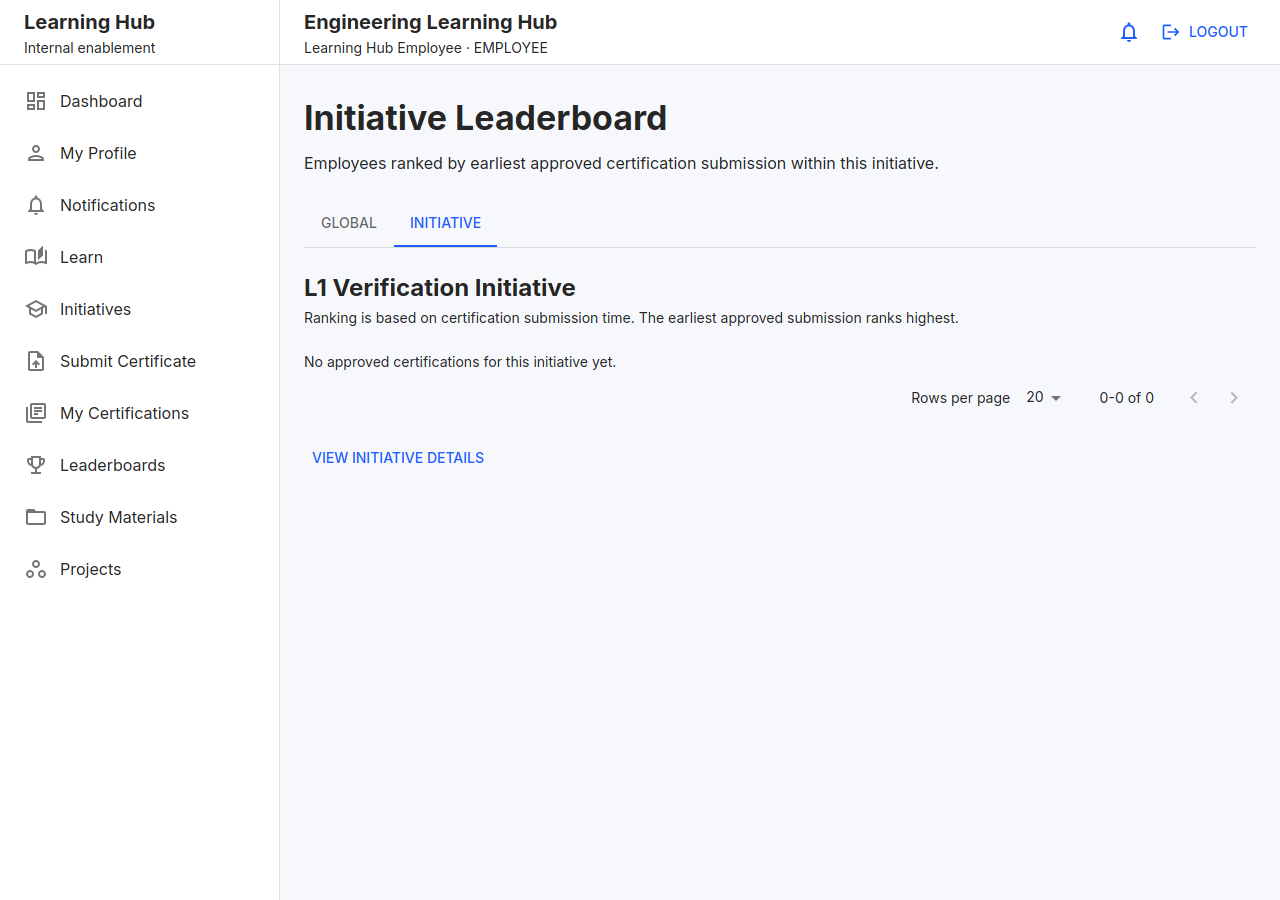
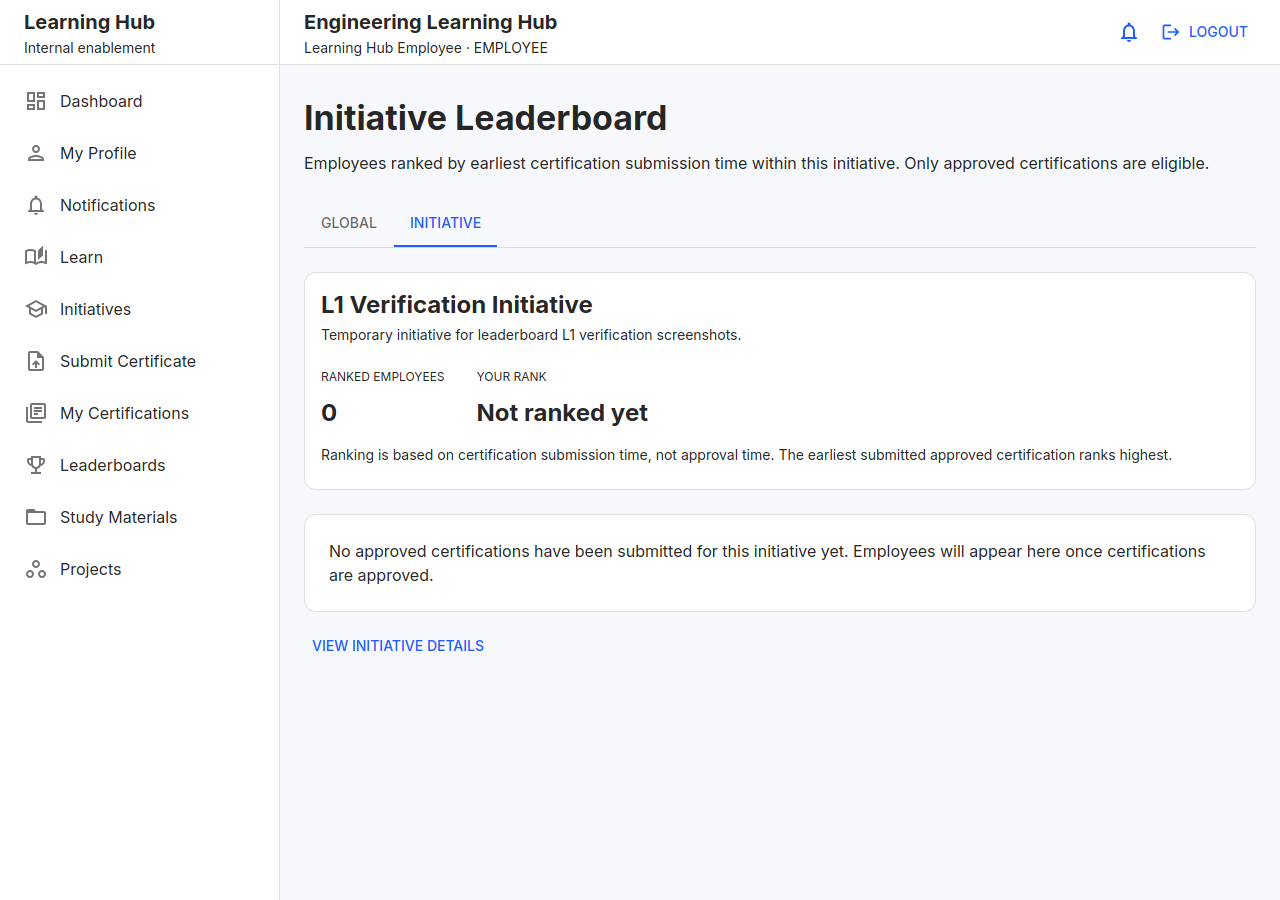
fix(leaderboard): address manual QA polish for initiative leaderboard UI

diff --git a/frontend/src/components/leaderboards/InitiativeLeaderboardView.tsx b/frontend/src/components/leaderboards/InitiativeLeaderboardView.tsx
@@ -2,6 +2,8 @@ import {
   Alert,
   Box,
   Button,
+  Card,
+  CardContent,
   Paper,
   Skeleton,
   Stack,
@@ -13,6 +15,7 @@ import {
   TableRow,
   Typography,
 } from '@mui/material'
+import type { Initiative } from '../../types/initiatives'
 import type { InitiativeLeaderboardEntry } from '../../types/leaderboards'
 import { formatInitiativeDate } from '../initiatives/initiativeDisplay'
 import { WrappingText } from '../common/WrappingText'
@@ -21,7 +24,9 @@ import { LEADERBOARD_MESSAGES } from './leaderboardMessages'
 
 interface InitiativeLeaderboardViewProps {
   initiativeTitle: string
+  initiative?: Initiative | null
   entries: InitiativeLeaderboardEntry[]
+  totalElements: number
   loading: boolean
   error: string | null
   currentUserId?: string | null
@@ -30,12 +35,16 @@ interface InitiativeLeaderboardViewProps {
 
 export function InitiativeLeaderboardView({
   initiativeTitle,
+  initiative,
   entries,
+  totalElements,
   loading,
   error,
   currentUserId,
   onRetry,
 }: InitiativeLeaderboardViewProps) {
+  const currentUserEntry = entries.find((entry) => entry.employee.id === currentUserId)
+
   if (error) {
     return (
       <Alert
@@ -55,12 +64,51 @@ export function InitiativeLeaderboardView({
 
   return (
     <Stack spacing={3}>
-      <Stack spacing={0.5}>
-        <Typography variant="h5">{initiativeTitle}</Typography>
-        <Typography color="text.secondary" variant="body2">
-          {LEADERBOARD_MESSAGES.initiativeRankingRule}
-        </Typography>
-      </Stack>
+      <Card variant="outlined">
+        <CardContent>
+          {loading ? (
+            <Stack spacing={1.5}>
+              <Skeleton height={32} width="45%" />
+              <Skeleton height={20} width="80%" />
+              <Skeleton height={48} width="60%" />
+            </Stack>
+          ) : (
+            <Stack spacing={2}>
+              <Stack spacing={0.5}>
+                <Typography variant="h5">{initiativeTitle}</Typography>
+                {initiative?.description ? (
+                  <Typography color="text.secondary" variant="body2">
+                    {initiative.description}
+                  </Typography>
+                ) : null}
+              </Stack>
+
+              <Stack
+                direction={{ xs: 'column', sm: 'row' }}
+                spacing={{ xs: 2, sm: 4 }}
+                sx={{ alignItems: { sm: 'center' } }}
+              >
+                <Stack spacing={0.5}>
+                  <Typography variant="overline">{LEADERBOARD_MESSAGES.initiativeRankedEmployees}</Typography>
+                  <Typography variant="h5">{totalElements}</Typography>
+                </Stack>
+                {currentUserId && (currentUserEntry || totalElements === 0) ? (
+                  <Stack spacing={0.5}>
+                    <Typography variant="overline">{LEADERBOARD_MESSAGES.initiativeYourRank}</Typography>
+                    <Typography variant="h5">
+                      {currentUserEntry ? `#${currentUserEntry.rank}` : LEADERBOARD_MESSAGES.myRankUnranked}
+                    </Typography>
+                  </Stack>
+                ) : null}
+              </Stack>
+
+              <Typography color="text.secondary" variant="body2">
+                {LEADERBOARD_MESSAGES.initiativeRankingRule}
+              </Typography>
+            </Stack>
+          )}
+        </CardContent>
+      </Card>
 
       {loading ? (
         <Stack spacing={1}>
@@ -69,9 +117,11 @@ export function InitiativeLeaderboardView({
           ))}
         </Stack>
       ) : entries.length === 0 ? (
-        <Typography color="text.secondary" variant="body2">
-          {LEADERBOARD_MESSAGES.emptyInitiative}
-        </Typography>
+        <Paper sx={{ p: 3 }} variant="outlined">
+          <Typography color="text.secondary" variant="body1">
+            {LEADERBOARD_MESSAGES.emptyInitiative}
+          </Typography>
+        </Paper>
       ) : (
         <>
           <Box sx={{ display: { xs: 'block', md: 'none' } }}>
@@ -104,7 +154,7 @@ export function InitiativeLeaderboardView({
             </Stack>
           </Box>
 
-          <TableContainer sx={{ display: { xs: 'none', md: 'block' } }}>
+          <TableContainer component={Paper} variant="outlined" sx={{ display: { xs: 'none', md: 'block' } }}>
             <Table>
               <TableHead>
                 <TableRow>

diff --git a/frontend/src/pages/leaderboards/InitiativeLeaderboardPage.tsx b/frontend/src/pages/leaderboards/InitiativeLeaderboardPage.tsx
@@ -1,5 +1,5 @@
 import { useCallback, useEffect, useState } from 'react'
-import { Alert, Box, Button, FormControl, InputLabel, MenuItem, Select, Stack } from '@mui/material'
+import { Alert, Box, Button, FormControl, InputLabel, MenuItem, Select, Stack, Typography } from '@mui/material'
 import { Link as RouterLink, useNavigate, useParams } from 'react-router-dom'
 import { initiativesApi } from '../../api/initiativesApi'
 import { leaderboardsApi } from '../../api/leaderboardsApi'
@@ -31,6 +31,7 @@ export function InitiativeLeaderboardPage() {
   const navigate = useNavigate()
   const { user } = useAuth()
   const [initiatives, setInitiatives] = useState<Initiative[]>([])
+  const [initiative, setInitiative] = useState<Initiative | null>(null)
   const [initiativeTitle, setInitiativeTitle] = useState('')
   const [pageData, setPageData] = useState<PageResponse<InitiativeLeaderboardEntry>>(EMPTY_PAGE)
   const [loadingInitiatives, setLoadingInitiatives] = useState(!initiativeId)
@@ -94,6 +95,7 @@ export function InitiativeLeaderboardPage() {
           setNotFound(true)
           setPageData(EMPTY_PAGE)
           setInitiativeTitle('')
+          setInitiative(null)
           return
         }
         throw initiativeResult.reason
@@ -104,12 +106,14 @@ export function InitiativeLeaderboardPage() {
           setNotFound(true)
           setPageData(EMPTY_PAGE)
           setInitiativeTitle(initiativeResult.value.title)
+          setInitiative(initiativeResult.value)
           return
         }
         throw leaderboardResult.reason
       }
 
       setInitiativeTitle(initiativeResult.value.title)
+      setInitiative(initiativeResult.value)
       setPageData(leaderboardResult.value)
     } catch (loadError) {
       setLeaderboardError(resolveApiError(loadError, LEADERBOARD_MESSAGES.errorInitiative))
@@ -135,7 +139,9 @@ export function InitiativeLeaderboardPage() {
         <Stack spacing={2}>
           {initiativesError ? <Alert severity="error">{initiativesError}</Alert> : null}
           <FormControl fullWidth sx={{ maxWidth: 480 }}>
-            <InputLabel id="initiative-leaderboard-select-label">{LEADERBOARD_MESSAGES.initiativeSelectLabel}</InputLabel>
+            <InputLabel id="initiative-leaderboard-select-label" shrink>
+              {LEADERBOARD_MESSAGES.initiativeSelectLabel}
+            </InputLabel>
             <Select
               disabled={loadingInitiatives}
               displayEmpty
@@ -147,14 +153,16 @@ export function InitiativeLeaderboardPage() {
                   navigate(`/leaderboards/initiatives/${event.target.value}`)
                 }
               }}
+              renderValue={() => (
+                <Typography color="text.secondary" component="span" variant="body1">
+                  {loadingInitiatives ? 'Loading initiatives...' : LEADERBOARD_MESSAGES.initiativeSelectPlaceholder}
+                </Typography>
+              )}
               value=""
             >
-              <MenuItem disabled value="">
-                {loadingInitiatives ? 'Loading initiatives...' : LEADERBOARD_MESSAGES.initiativeSelectPlaceholder}
-              </MenuItem>
-              {initiatives.map((initiative) => (
-                <MenuItem key={initiative.id} value={initiative.id}>
-                  {initiative.title}
+              {initiatives.map((initiativeOption) => (
+                <MenuItem key={initiativeOption.id} value={initiativeOption.id}>
+                  {initiativeOption.title}
                 </MenuItem>
               ))}
             </Select>
@@ -169,20 +177,24 @@ export function InitiativeLeaderboardPage() {
             currentUserId={user?.id}
             entries={pageData.content}
             error={leaderboardError}
+            initiative={initiative}
             initiativeTitle={initiativeTitle || pageData.content[0]?.initiativeTitle || 'Initiative'}
             loading={loadingLeaderboard}
             onRetry={() => setRefreshToken((current) => current + 1)}
-          />
-          <TablePaginationBar
-            onPageChange={setPage}
-            onSizeChange={(nextSize) => {
-              setSize(nextSize)
-              setPage(0)
-            }}
-            page={page}
-            size={size}
             totalElements={pageData.totalElements}
           />
+          {pageData.totalElements > 0 ? (
+            <TablePaginationBar
+              onPageChange={setPage}
+              onSizeChange={(nextSize) => {
+                setSize(nextSize)
+                setPage(0)
+              }}
+              page={page}
+              size={size}
+              totalElements={pageData.totalElements}
+            />
+          ) : null}
           <Button component={RouterLink} sx={{ mt: 2 }} to={`/initiatives/${initiativeId}`} variant="text">
             View Initiative Details
           </Button>

diff --git a/frontend/src/pages/leaderboards/InitiativeLeaderboardPage.test.tsx b/frontend/src/pages/leaderboards/InitiativeLeaderboardPage.test.tsx
@@ -122,7 +122,7 @@ describe('InitiativeLeaderboardPage', () => {
     renderRoutes('/leaderboards/initiatives/initiative-123')
 
     expect(await screen.findByText('AWS Certification')).toBeInTheDocument()
-    expect(screen.getByText(/Ranking is based on certification submission time/i)).toBeInTheDocument()
+    expect(screen.getByText(/Ranking is based on certification submission time, not approval time/i)).toBeInTheDocument()
     await waitFor(() => {
       expect(screen.getAllByText('Employee One').length).toBeGreaterThan(0)
     })
@@ -158,5 +158,28 @@ describe('InitiativeLeaderboardPage', () => {
     await user.click(screen.getByRole('option', { name: 'AWS Certification' }))
 
     expect(await screen.findByText('AWS Certification')).toBeInTheDocument()
+  })
+
+  it('hides pagination when the initiative leaderboard is empty', async () => {
+    vi.mocked(initiativesApi.get).mockResolvedValue(initiative)
+    vi.mocked(leaderboardsApi.initiative).mockResolvedValue({
+      content: [],
+      first: true,
+      last: true,
+      page: 0,
+      size: 20,
+      sort: [],
+      totalElements: 0,
+      totalPages: 0,
+    })
+
+    renderRoutes('/leaderboards/initiatives/initiative-123')
+
+    expect(
+      await screen.findByText(
+        'No approved certifications have been submitted for this initiative yet. Employees will appear here once certifications are approved.',
+      ),
+    ).toBeInTheDocument()
+    expect(screen.queryByText('Rows per page')).not.toBeInTheDocument()
   })
 })

diff --git a/frontend/src/components/leaderboards/leaderboardMessages.ts b/frontend/src/components/leaderboards/leaderboardMessages.ts
@@ -4,16 +4,19 @@ export const LEADERBOARD_MESSAGES = {
   approvedCertificationLabel: 'Approved Certifications',
   currentUserSummary: 'Your standing on the global leaderboard.',
   emptyGlobal: 'No approved certifications yet. Complete and get certifications approved to appear here.',
-  emptyInitiative: 'No approved certifications for this initiative yet.',
+  emptyInitiative:
+    'No approved certifications have been submitted for this initiative yet. Employees will appear here once certifications are approved.',
   errorGlobal: 'Unable to load the global leaderboard. Please refresh or try again later.',
   errorInitiative: 'Unable to load the initiative leaderboard. Please refresh or try again later.',
   globalDescription:
     'Employees ranked by verified approved certifications across all initiatives. All-time results only.',
   globalTitle: 'Global Leaderboard',
   initiativeDescription:
-    'Employees ranked by earliest approved certification submission within this initiative.',
+    'Employees ranked by earliest certification submission time within this initiative. Only approved certifications are eligible.',
   initiativeRankingRule:
-    'Ranking is based on certification submission time. The earliest approved submission ranks highest.',
+    'Ranking is based on certification submission time, not approval time. The earliest submitted approved certification ranks highest.',
+  initiativeRankedEmployees: 'Ranked employees',
+  initiativeYourRank: 'Your rank',
   initiativeSelectLabel: 'Learning initiative',
   initiativeSelectPlaceholder: 'Select an initiative',
   initiativeTab: 'Initiative',
@@ -26,7 +29,7 @@ export const LEADERBOARD_MESSAGES = {
   rank: 'Rank',
   retry: 'Retry',
   submitted: 'Submitted',
-  approved: 'Approved',
+  approved: 'Approved on',
   topPerformers: 'Top Performers',
   viewLeaderboard: 'View Leaderboard',
   viewFullLeaderboard: 'View Full Leaderboard',